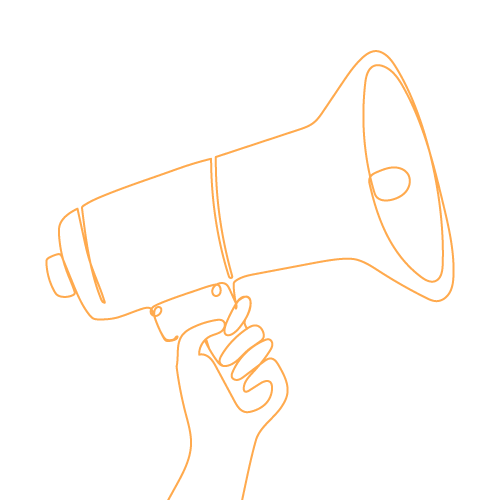
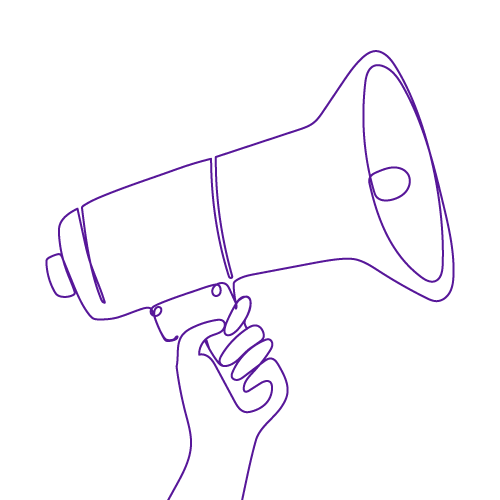
feat: Implement a cinematic design refresh with new OKLCH color palette, updated imagery, and refined homepage section layouts.

diff --git a/src/assets/css/homepage.css b/src/assets/css/homepage.css
@@ -6,6 +6,7 @@
 .section-title {
   font-family: var(--font-display);
   font-size: clamp(var(--font-size-2xl), 6vw, var(--font-size-5xl));
+  margin-top: 0; /* Supprime la marge héritée du h2 global pour garantir la symétrie */
   margin-bottom: var(--space-xl);
   color: var(--color-text);
   line-height: var(--line-height-tight);
@@ -35,7 +36,7 @@
   width: 100%;
   height: 100%;
   object-fit: cover;
-  filter: grayscale(40%) brightness(0.4);
+  filter: grayscale(10%) brightness(0.8); 
   transition: transform var(--transition-slow);
 }
 
@@ -46,7 +47,7 @@
 .hero__overlay {
   position: absolute;
   inset: 0;
-  background: linear-gradient(to bottom, rgba(10,10,10, 0.4) 0%, rgba(10,10,10, 0.9) 100%);
+  background: linear-gradient(to bottom, rgba(22, 22, 35, 0.4) 0%, rgba(22, 22, 35, 0.9) 100%);
   z-index: 1;
   pointer-events: none;
 }
@@ -98,22 +99,27 @@
 /* --- SECTION PROJET À LA UNE --- */
 .featured-project {
   padding: var(--space-2xl) 0;
-  background-color: var(--neutral-950);
+  background-color: var(--neutral-900);
+  position: relative;
+  overflow: hidden;
+  border-top: 1px solid var(--color-border);
 }
 
 /* Élément interne pour la parallaxe */
 .featured-project__parallax {
   position: absolute;
-  bottom: -20%;
-  z-index: 10;
-  right: 0;
-  width: 30%;
+  top: -10%;
+  right: -5%;
+  z-index: 1;
+  width: 35%;
   aspect-ratio: 1 / 1;
   background-image: url("../images/featured.png");
   background-size: contain;
   background-position: right top;
   background-repeat: no-repeat;
   pointer-events: none;
+  opacity: 0.8;
+  --parallax-flip: -1; /* Rétablit l'inversion uniquement pour celle-ci */
 }
 
 .featured-project-row {
@@ -140,6 +146,11 @@
   box-shadow: inset 0 0 100px rgba(0,0,0,0.5);
 }
 
+.featured-project .container {
+  position: relative;
+  z-index: 2;
+}
+
 .featured-project-text {
   padding: var(--space-lg);
 }
@@ -158,6 +169,7 @@
 /* --- SECTION PRODUCTIONS --- */
 .productions {
   padding: var(--space-2xl) 0;
+  border-top: 1px solid var(--color-border);
 }
 
 .productions-grid {
@@ -197,7 +209,7 @@
 .production-overlay {
   position: absolute;
   inset: 0;
-  background: linear-gradient(to top, rgba(10,10,10, 0.9) 0%, rgba(10,10,10, 0.4) 60%, transparent 100%);
+  background: linear-gradient(to top, rgba(22, 22, 35, 0.9) 0%, rgba(22, 22, 35, 0.4) 60%, transparent 100%);
   display: flex;
   flex-direction: column;
   justify-content: flex-end;
@@ -268,10 +280,12 @@
 
 /* --- SECTION TERRAIN DE JEU CRÉATIF --- */
 .creative-playground {
-  padding: var(--space-3xl) 0;
+  padding: var(--space-2xl) 0;
   background-color: var(--neutral-900);
   border-top: 1px solid var(--color-border);
   border-bottom: 1px solid var(--color-border);
+  position: relative;
+  overflow: hidden;
 }
 
 .creative-list {
@@ -283,6 +297,11 @@
   margin: 0;
 }
 
+.creative-playground .container {
+  position: relative;
+  z-index: 2;
+}
+
 .creative-list li h3 {
   font-family: var(--font-display);
   color: var(--color-accent);
@@ -291,11 +310,34 @@
 
 .creative-list li p {
   color: var(--neutral-400);
+  margin-bottom: 0; /* Évite un décalage en fin de section */
 }
 
 /* --- SECTION A PROPOS --- */
 .about {
-  padding: var(--space-3xl) 0;
+  padding: var(--space-2xl) 0;
+  position: relative;
+  overflow: hidden;
+  border-top: 1px solid var(--color-border);
+}
+
+.about .container {
+  position: relative;
+  z-index: 2;
+}
+
+.about__parallax {
+  position: absolute;
+  z-index: 1;
+
+  width: 35%;
+  aspect-ratio: 1 / 1;
+  background-image: url("../images/about.png");
+  background-size: contain;
+  background-position: left bottom;
+  background-repeat: no-repeat;
+  pointer-events: none;
+  opacity: 0.8;
 }
 
 .about-grid {
@@ -304,7 +346,6 @@
   gap: var(--space-2xl);
   align-items: start;
 }
-
 .about-text {
   font-size: var(--font-size-lg);
 }
@@ -313,6 +354,10 @@
   margin-bottom: var(--space-lg);
   padding-left: var(--space-md);
   border-left: 2px solid var(--color-accent);
+}
+
+.about-value:last-child {
+  margin-bottom: 0;
 }
 
 .about-value-title {
@@ -330,8 +375,9 @@
 
 /* --- SECTION PARTENAIRES --- */
 .partners {
-  padding: var(--space-3xl) 0;
+  padding: var(--space-2xl) 0;
   background-color: var(--neutral-900);
+  border-top: 1px solid var(--color-border);
 }
 
 .partners-grid {
@@ -344,8 +390,8 @@
 .partner-logo img {
   max-width: 100%;
   height: auto;
-  filter: grayscale(100%) invert(1);
-  opacity: 0.5;
+  /* filter: grayscale(100%) invert(1); */
+  opacity: 0.9;
   transition: all var(--transition-base);
 }
 

diff --git a/src/assets/css/tokens.css b/src/assets/css/tokens.css
@@ -19,20 +19,20 @@
   --violet-700: #7e22ce;
   --violet-900: #4c1d95;
   
-  /* Palette Neutre - Deep Slate / Night */
-  --neutral-50: #fafafa;
-  --neutral-100: #f5f5f5;
-  --neutral-200: #e5e5e5;
-  --neutral-400: #a3a3a3;
-  --neutral-500: #737373;
-  --neutral-800: #262626;
-  --neutral-900: #171717;
-  --neutral-950: #0a0a0a;
+  /* Palette Neutre "Cinematic Deep" - Utilisation de OKLCH pour une profondeur moderne */
+  --neutral-50: oklch(98% 0.005 285);
+  --neutral-100: oklch(92% 0.01 285);
+  --neutral-200: oklch(85% 0.02 285);
+  --neutral-400: oklch(65% 0.03 285);
+  --neutral-500: oklch(50% 0.04 285);
+  --neutral-800: oklch(22% 0.02 285);   /* Gris profond teinté de violet */
+  --neutral-900: oklch(16% 0.015 285);  /* Background principal */
+  --neutral-950: oklch(11% 0.01 285);   /* Noir pur cinématique */
 
   /* Couleurs de fond */
-  --color-bg: var(--neutral-950);
-  --color-bg-subtle: var(--neutral-900);
-  --color-bg-card: #141414;
+  --color-bg: var(--neutral-900);
+  --color-bg-subtle: var(--neutral-950);
+  --color-bg-card: oklch(20% 0.02 285);
   
   /* Couleurs de texte */
   --color-text: var(--neutral-100);
@@ -40,9 +40,9 @@
   --color-text-on-dark: #ffffff;
   
   /* Couleurs utilitaires */
-  --color-accent: var(--violet-500);
-  --color-border: rgba(255, 255, 255, 0.1);
-  --color-overlay: rgba(0, 0, 0, 0.75);
+  --color-accent: oklch(62% 0.23 295); /* Violet électrique plus vibrant */
+  --color-border: oklch(25% 0.03 285 / 0.5);
+  --color-overlay: oklch(10% 0.02 285 / 0.85);
   
   /* ============ TYPOGRAPHIE ============ */
   

diff --git a/src/assets/css/layout.css b/src/assets/css/layout.css
@@ -120,7 +120,7 @@
 }
 
 .footer-links a {
-  color: var(--neutral-400);
+  color: var(--color-accent);
   transition: all var(--transition-base);
 }
 
@@ -141,9 +141,9 @@
   justify-content: center;
   width: 40px;
   height: 40px;
-  background: var(--neutral-900);
+  background: var(--color-accent);
   border-radius: var(--radius-full);
-  color: var(--neutral-100);
+  color: var(--color-text);
   transition: all var(--transition-base);
   border: 1px solid var(--color-border);
 }
@@ -164,7 +164,7 @@
   padding-top: var(--space-lg);
   border-top: 1px solid var(--color-border);
   font-size: var(--font-size-xs);
-  color: var(--neutral-500);
+  color: var(--color-text);
 }
 
 .footer-legal {

diff --git a/src/assets/js/main.js b/src/assets/js/main.js
@@ -55,7 +55,8 @@ document.addEventListener("DOMContentLoaded", () => {
   const onScroll = () => {
     const scrollY = window.scrollY || window.pageYOffset;
     elements.forEach(el => {
-      el.style.transform = `translateY(${scrollY * speed}px) scaleX(-1)`;
+      const flip = getComputedStyle(el).getPropertyValue('--parallax-flip').trim() || '1';
+      el.style.transform = `translateY(${scrollY * speed}px) scaleX(${flip})`;
     });
   };
 

diff --git a/src/productions/clips/cyecye/cyecye.md b/src/productions/clips/cyecye/cyecye.md
@@ -1,5 +1,5 @@
 ---
-featured-project : true
+featured-project : false
 layout: production.njk
 title: Cover your ears Cover your eyes
 tags:

diff --git a/src/productions/clips/fire-and-rain/fire-and-rain.md b/src/productions/clips/fire-and-rain/fire-and-rain.md
@@ -1,5 +1,5 @@
 ---
-featured-project : true
+featured-project : false
 layout: production.njk
 title: Fire and Rain
 tags: production
